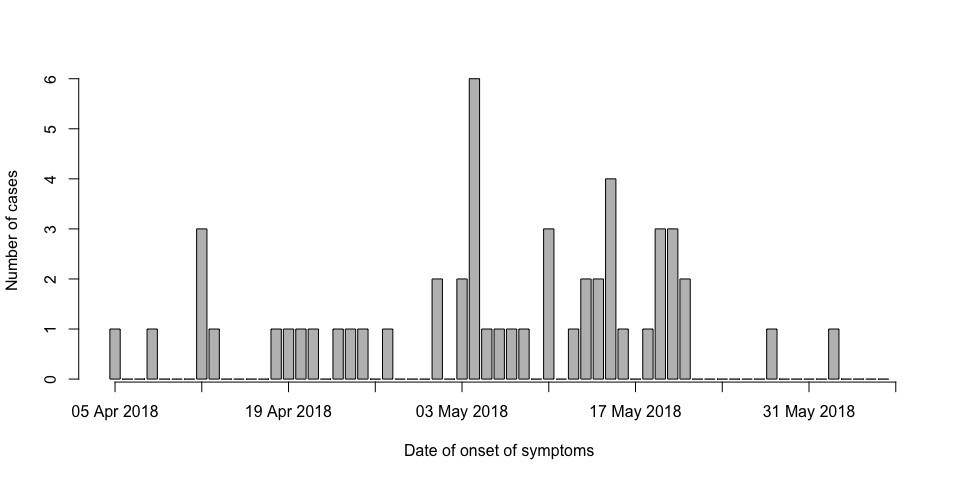
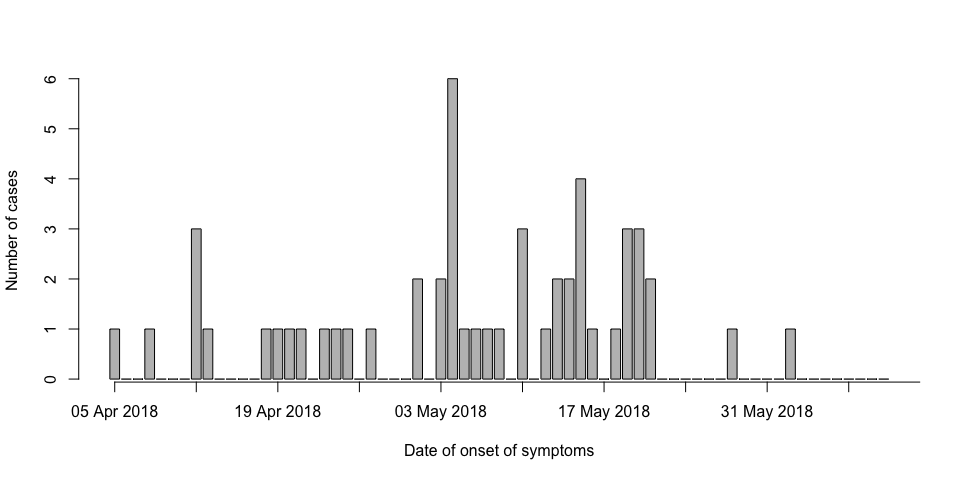
Updated analysis based on External Situation Report 10

diff --git a/DRC (GitHub 2018)/README.md b/DRC (GitHub 2018)/README.md
@@ -1,7 +1,7 @@
 Real-time analysis of the 2018 Ebola outbreak in the Democratic Republic of Congo
 ================
 
-9 June 2018
+14 June 2018
 
 Christian L. Althaus (<christian.althaus@alumni.ethz.ch>), [Immuno-Epidemiology](http://www.immuno-epidemiology.ch/), Institute of Social and Preventive Medicine, University of Bern, Bern, Switzerland
 
@@ -16,7 +16,7 @@ Based on the same methodology that we developed for analyzing the 2014 EVD outbr
 
 ![](README_files/figure-markdown_github/plot_data-1.png)
 
-**Figure 1. Confirmed and probable EVD cases in the Democratic Republic of Congo (DRC)** The [WHO situation report](http://apps.who.int/iris/bitstream/handle/10665/272785/SITREP_EVD_DRC_20180608-eng.pdf?utm_source=Newsweaver&utm_medium=email&utm_term=click+here+to+download+the+complete+situation+report&utm_content=Tag%3AAFRO%2FWHE%2FHIM+Outbreaks+Weekly&utm_campaign=WHO+AFRO+-+Situation+Report+-+Ebola+Virus+Disease+Outbreak+in+DRC+-+Sitrep+09+%282018%29) from 8 June 2018 reported 52 confirmed and probable EVD cases until 6 June 2018.
+**Figure 1. Confirmed and probable EVD cases in the Democratic Republic of Congo (DRC)** The [WHO situation report](http://apps.who.int/iris/bitstream/handle/10665/272825/SITREP_EVD_DRC_20180612-eng.pdf?ua=1) from 12 June 2018 reported 52 confirmed and probable EVD cases until 10 June 2018.
 
 Outbreak analysis and projection
 --------------------------------
